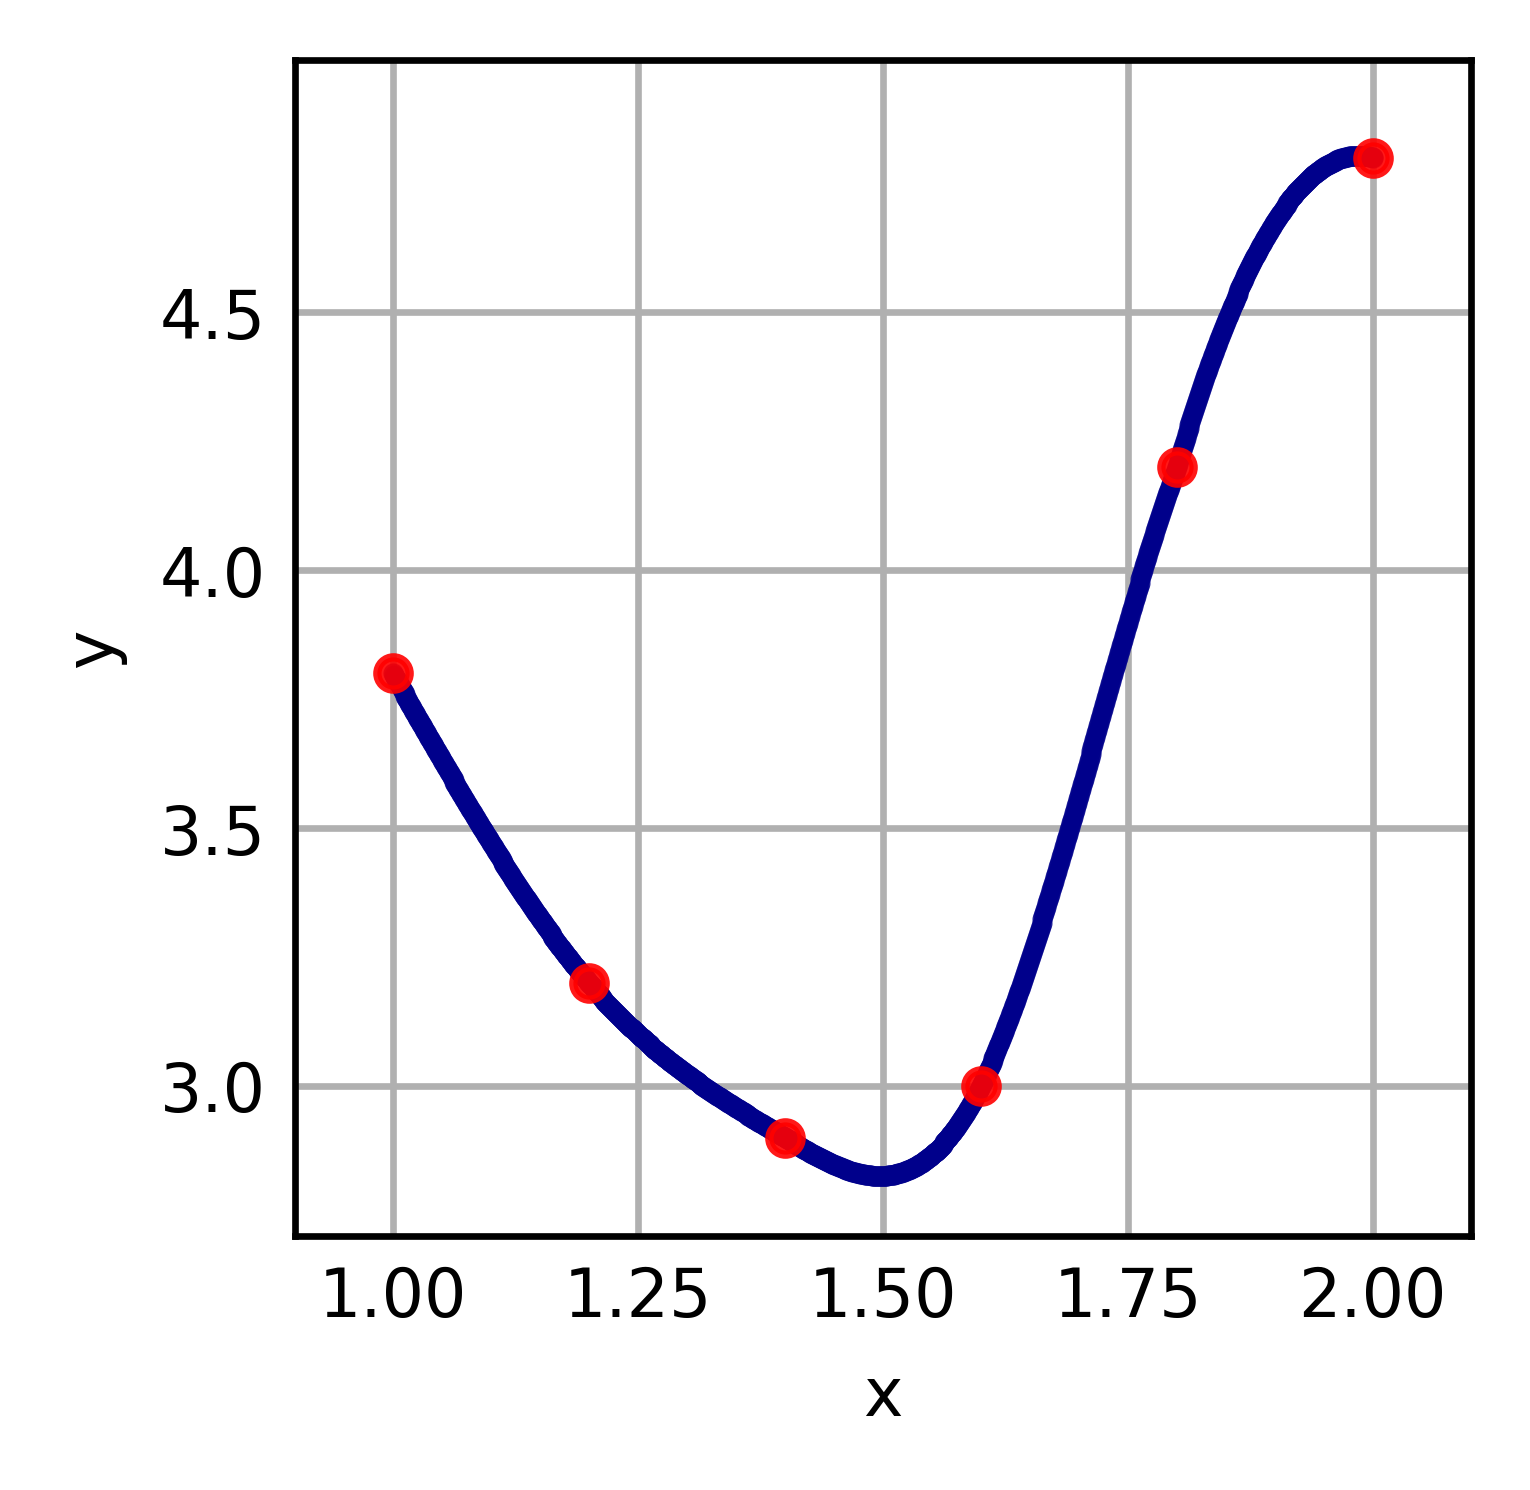
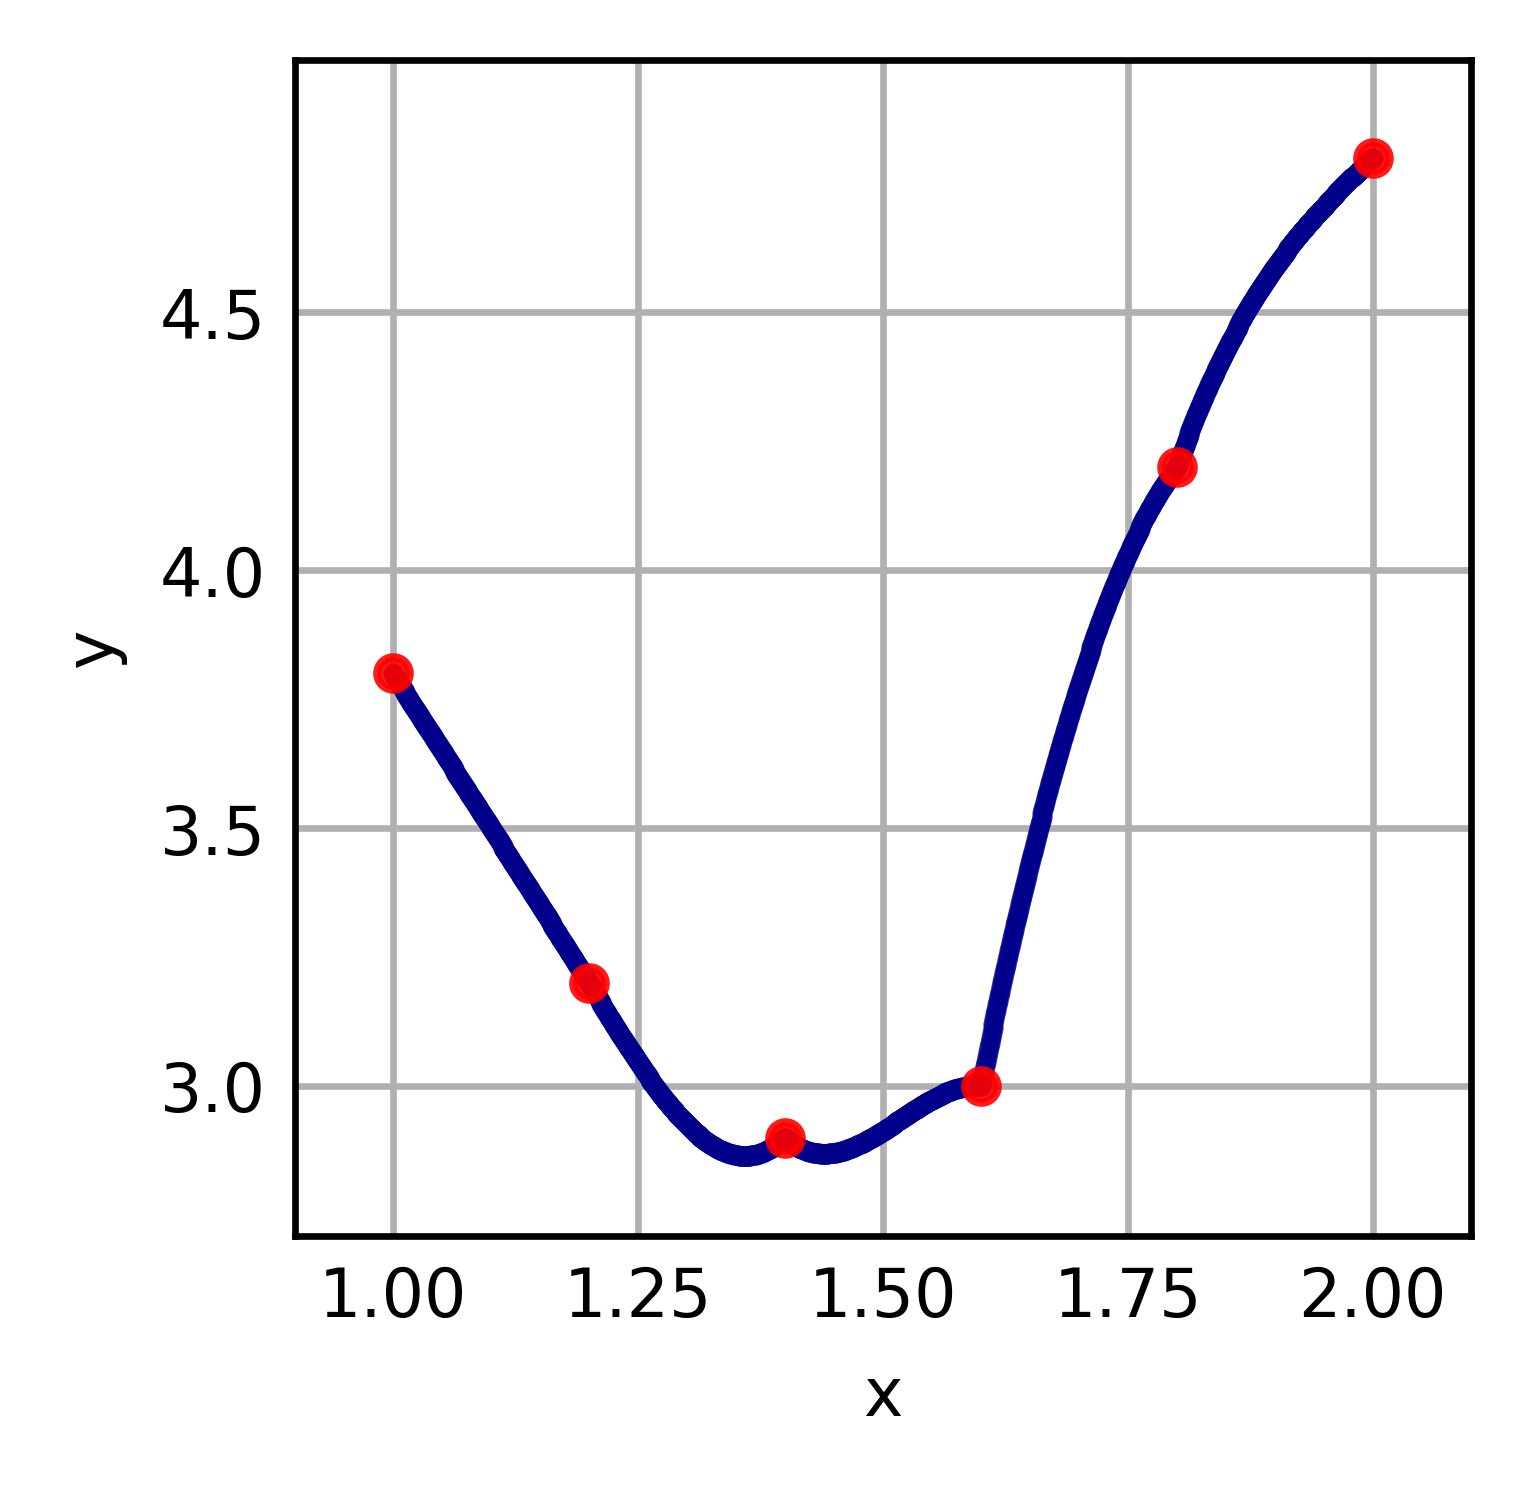
При правильном добавлении коэффициентов, что-то ломается  в полиномах

Changed region(s): [[0.3993, 0.3087, 0.768, 0.8027], [0.768, 0.0926, 0.8908, 0.3087], [0.2765, 0.494, 0.3686, 0.6483]]

diff --git a/splines.py b/splines.py
@@ -55,14 +55,17 @@ def tridiagonal_coefficients(y, h_i)-> list[Coefficient_c_i]:
     n = len(h_i)
 
     coefficients = []
-    for i in range(0, n):
+    # цикл нельзяначинать с нуля потому что подставляем только 4 значения h_i
+    for i in range(1, n):
         # Правильная формула для три диагональной системы
         main_diagonal = 2 * (h_i[i - 1] + h_i[i])
         down_diagonal = h_i[i - 1]
         upper_diagonal = h_i[i]
 
         # Правая часть уравнения
-        answer = 3 * (((y[i + 1] - y[i]) / h_i[i]) - ((y[i] - y[i - 1]) / h_i[i - 1]))
+        left =   (y[i + 1] - y[i]) / h_i[i]
+        right  = (y[i] - y[i - 1]) / h_i[i - 1]
+        answer = 3 * (left - right)
         
         # Отладочная информация для точки x=1.4 (i=2)
         if i == 1:
@@ -74,7 +77,8 @@ def tridiagonal_coefficients(y, h_i)-> list[Coefficient_c_i]:
         else:
             coeff = Coefficient_c_i(down_diagonal, main_diagonal, upper_diagonal, answer)
         coefficients.append(coeff)
-    logger.debug(f"{len(coefficients)=}")
+
+    print([f"<< {c.s:.3f} >> " for c in coefficients])
     return coefficients
 
 def calculate_U(coefficients: list[Coefficient_c_i]):
@@ -110,15 +114,19 @@ def calculate_c_i(y, h_i):
     V = calculate_V(coefficients)
 
     logger.debug(f"{len(U)=}")
-    n = len(h_i)
-    c = [0.0] * (n + 1)
+    logger.debug(f"{V[-1]=}")
+    n = len(U)
+    c = [0.0] * (n+1)
     logger.debug(f"{len(c)=}; {c=}")
+
+
     c[-1] = V[-1]
+    c.append(0.0)
     for i in range(n-1, 0, -1):
         c_i = U[i] * c[i+1] + V[i]  # Используем c[i+1] вместо c[i]
         c[i] = c_i  # Записываем в правильную позицию
         logger.debug(f"{c_i=}")
-    logger.debug(f"{len(c)=}; {c=}")
+    # logger.debug(f"{len(c)=}; {c=}")
     return c
 
 def calculate_d_i(c_i, h_i):
@@ -208,6 +216,7 @@ def get_all_cubic_polynom_coefficients(segments: list[Segment], y: list[float]) 
     a_i = get_a_i(y)
     logger.debug(f"{len(a_i)=}")
     c_i = calculate_c_i(y, h_i)
+    logger.debug(f" ---- {c_i=}")
     d_i = calculate_d_i(c_i, h_i)
     b_i = calculate_b_i(c_i, h_i, y)
     return a_i, b_i, c_i, d_i
